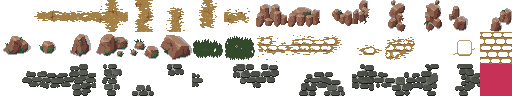
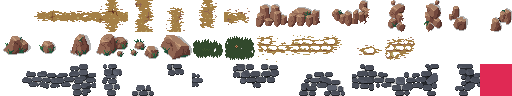
WIP - Update palette and some artwork

diff --git a/src/constants.rs b/src/constants.rs
@@ -66,8 +66,8 @@ pub const GRASS_LAYER: usize = 3;
 pub const FOREST_LAYER: usize = 4;
 // ------------------------------------------------------------------------------------------------------
 // Sprites: Placeholder tile set
-pub const TILE_SET_PLACEHOLDER_PATH: &str = "tilesets/default.png";
-pub const TILE_SET_PLACEHOLDER_COLUMNS: u32 = 5;
+pub const TILE_SET_PLACEHOLDER_PATH: &str = "tilesets/placeholders.png";
+pub const TILE_SET_PLACEHOLDER_COLUMNS: u32 = 6;
 pub const TILE_SET_PLACEHOLDER_ROWS: u32 = 1;
 // ------------------------------------------------------------------------------------------------------
 // Sprites: Detailed tile sets
@@ -108,16 +108,6 @@ pub const SINGLE: usize = 15;
 pub const ERROR: usize = 16;
 // ------------------------------------------------------------------------------------------------------
 // Objects
-pub const TREES_HUMID_OBJ_PATH: &str = "objects/trees-humid.png";
-pub const TREES_MODERATE_OBJ_PATH: &str = "objects/trees-moderate.png";
-pub const TREES_DRY_OBJ_PATH: &str = "objects/trees-dry.png";
-pub const TREES_OBJ_COLUMNS: u32 = 6;
-pub const TREES_OBJ_ROWS: u32 = 1;
-pub const TREES_OBJ_SIZE: UVec2 = UVec2::new(64, 128);
-pub const BUILDINGS_OBJ_PATH: &str = "objects/buildings.png";
-pub const BUILDINGS_OBJ_COLUMNS: u32 = 3;
-pub const BUILDINGS_OBJ_ROWS: u32 = 1;
-pub const BUILDINGS_OBJ_SIZE: UVec2 = UVec2::new(96, 64);
 pub const WATER_OBJ_PATH: &str = "objects/objects-water-deep.png";
 pub const SHORE_OBJ_PATH: &str = "objects/objects-water-shore.png";
 pub const OBJ_L1_DRY_PATH: &str = "objects/objects-l1-dry.png";
@@ -129,9 +119,18 @@ pub const OBJ_L2_HUMID_PATH: &str = "objects/objects-l2-humid.png";
 pub const OBJ_L3_DRY_PATH: &str = "objects/objects-l3-dry.png";
 pub const OBJ_L3_MODERATE_PATH: &str = "objects/objects-l3-moderate.png";
 pub const OBJ_L3_HUMID_PATH: &str = "objects/objects-l3-humid.png";
+pub const TREES_HUMID_OBJ_PATH: &str = "objects/trees-humid.png";
+pub const TREES_MODERATE_OBJ_PATH: &str = "objects/trees-moderate.png";
+pub const TREES_DRY_OBJ_PATH: &str = "objects/trees-dry.png";
+pub const BUILDINGS_OBJ_PATH: &str = "objects/buildings.png";
 pub const DEFAULT_OBJ_COLUMNS: u32 = 16;
 pub const DEFAULT_OBJ_ROWS: u32 = 3;
 pub const DEFAULT_OBJ_SIZE: UVec2 = UVec2::new(32, 32);
+pub const BUILDINGS_OBJ_COLUMNS: u32 = 9;
+pub const BUILDINGS_OBJ_ROWS: u32 = 3;
+pub const TREES_OBJ_COLUMNS: u32 = 6;
+pub const TREES_OBJ_ROWS: u32 = 1;
+pub const TREES_OBJ_SIZE: UVec2 = UVec2::new(64, 128);
 // ------------------------------------------------------------------------------------------------------
 // Colours
 pub const RED: Color = Color::hsl(0.59, 0.32, 0.52);
@@ -155,3 +154,4 @@ pub const WINDOW_HEIGHT: f32 = 720.;
 // ------------------------------------------------------------------------------------------------------
 // Common errors
 pub const TERRAIN_TYPE_ERROR: &'static str = "Invalid terrain type for drawing a terrain sprite";
+pub const CELL_LOCK_ERROR: &'static str = "Failed to lock cell";

diff --git a/src/generation/resources/generation_resources_collection.rs b/src/generation/resources/generation_resources_collection.rs
@@ -178,7 +178,7 @@ fn initialise_resources_system(
 
   // Objects: Buildings
   let static_buildings_layout =
-    TextureAtlasLayout::from_grid(BUILDINGS_OBJ_SIZE, BUILDINGS_OBJ_COLUMNS, BUILDINGS_OBJ_ROWS, None, None);
+    TextureAtlasLayout::from_grid(DEFAULT_OBJ_SIZE, BUILDINGS_OBJ_COLUMNS, BUILDINGS_OBJ_ROWS, None, None);
   let static_buildings_atlas_layout = layouts.add(static_buildings_layout);
   asset_collection.objects.buildings.stat =
     AssetPack::new(asset_server.load(BUILDINGS_OBJ_PATH), static_buildings_atlas_layout.clone());
